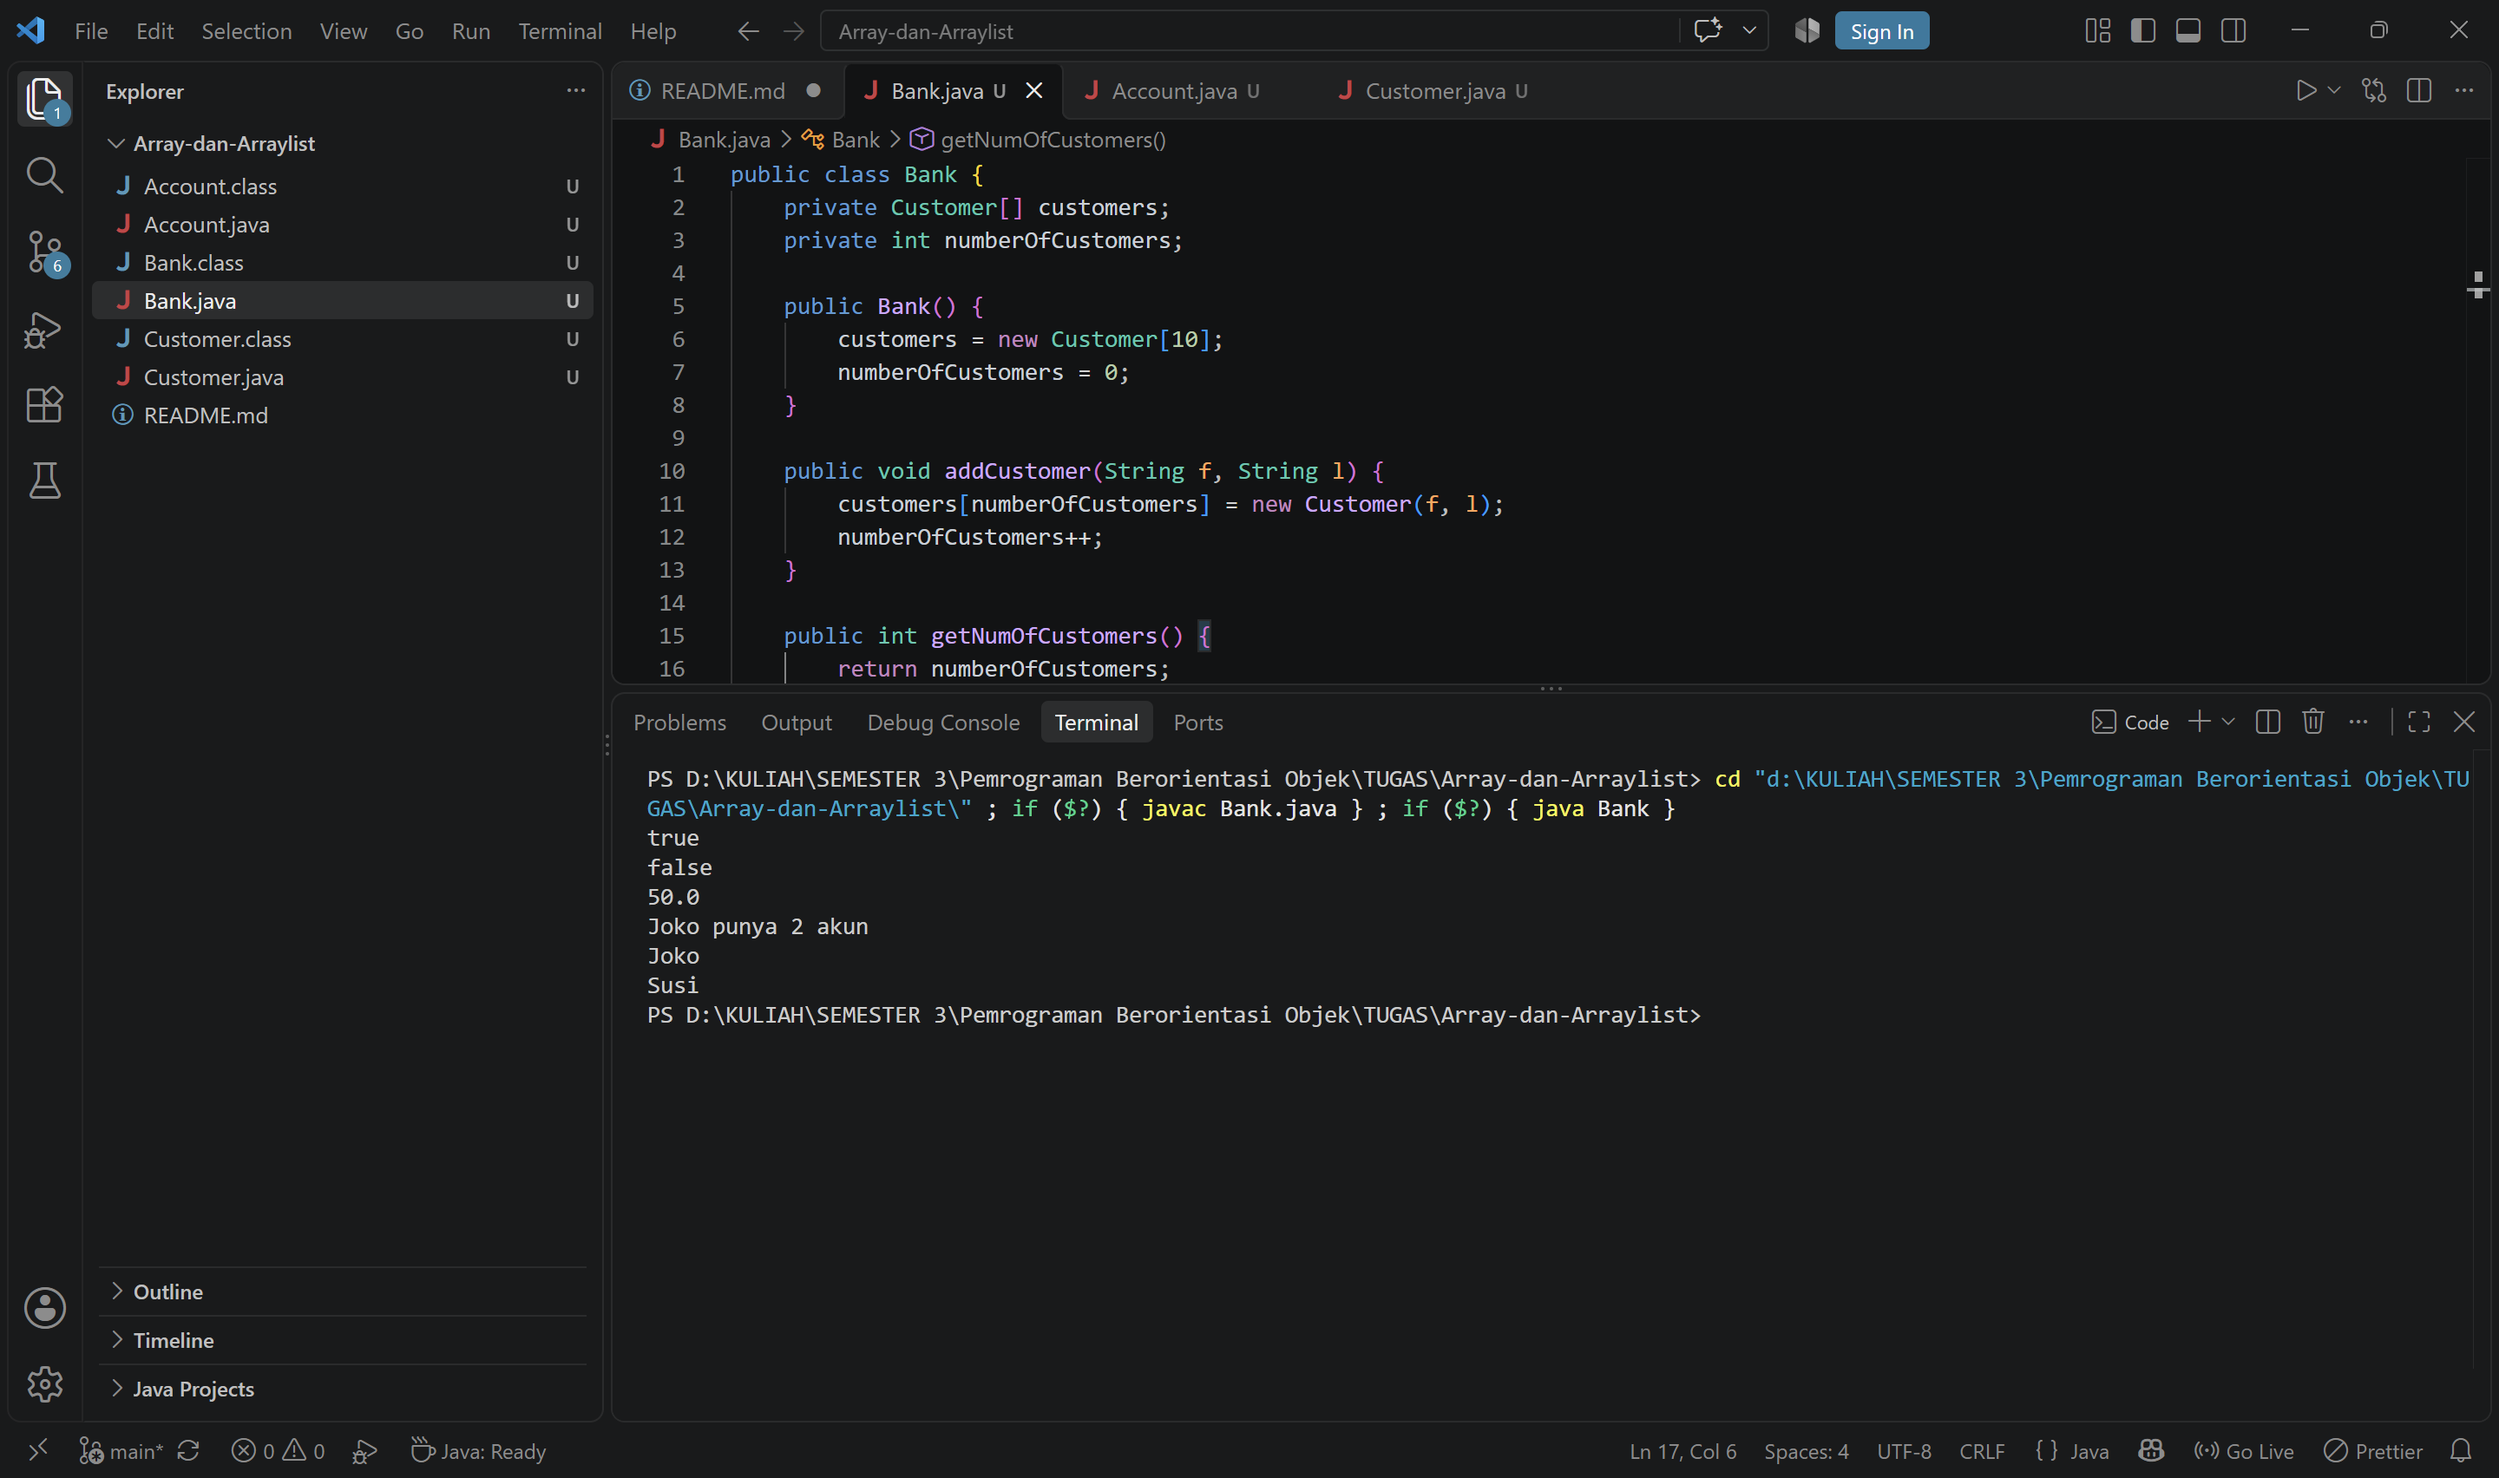
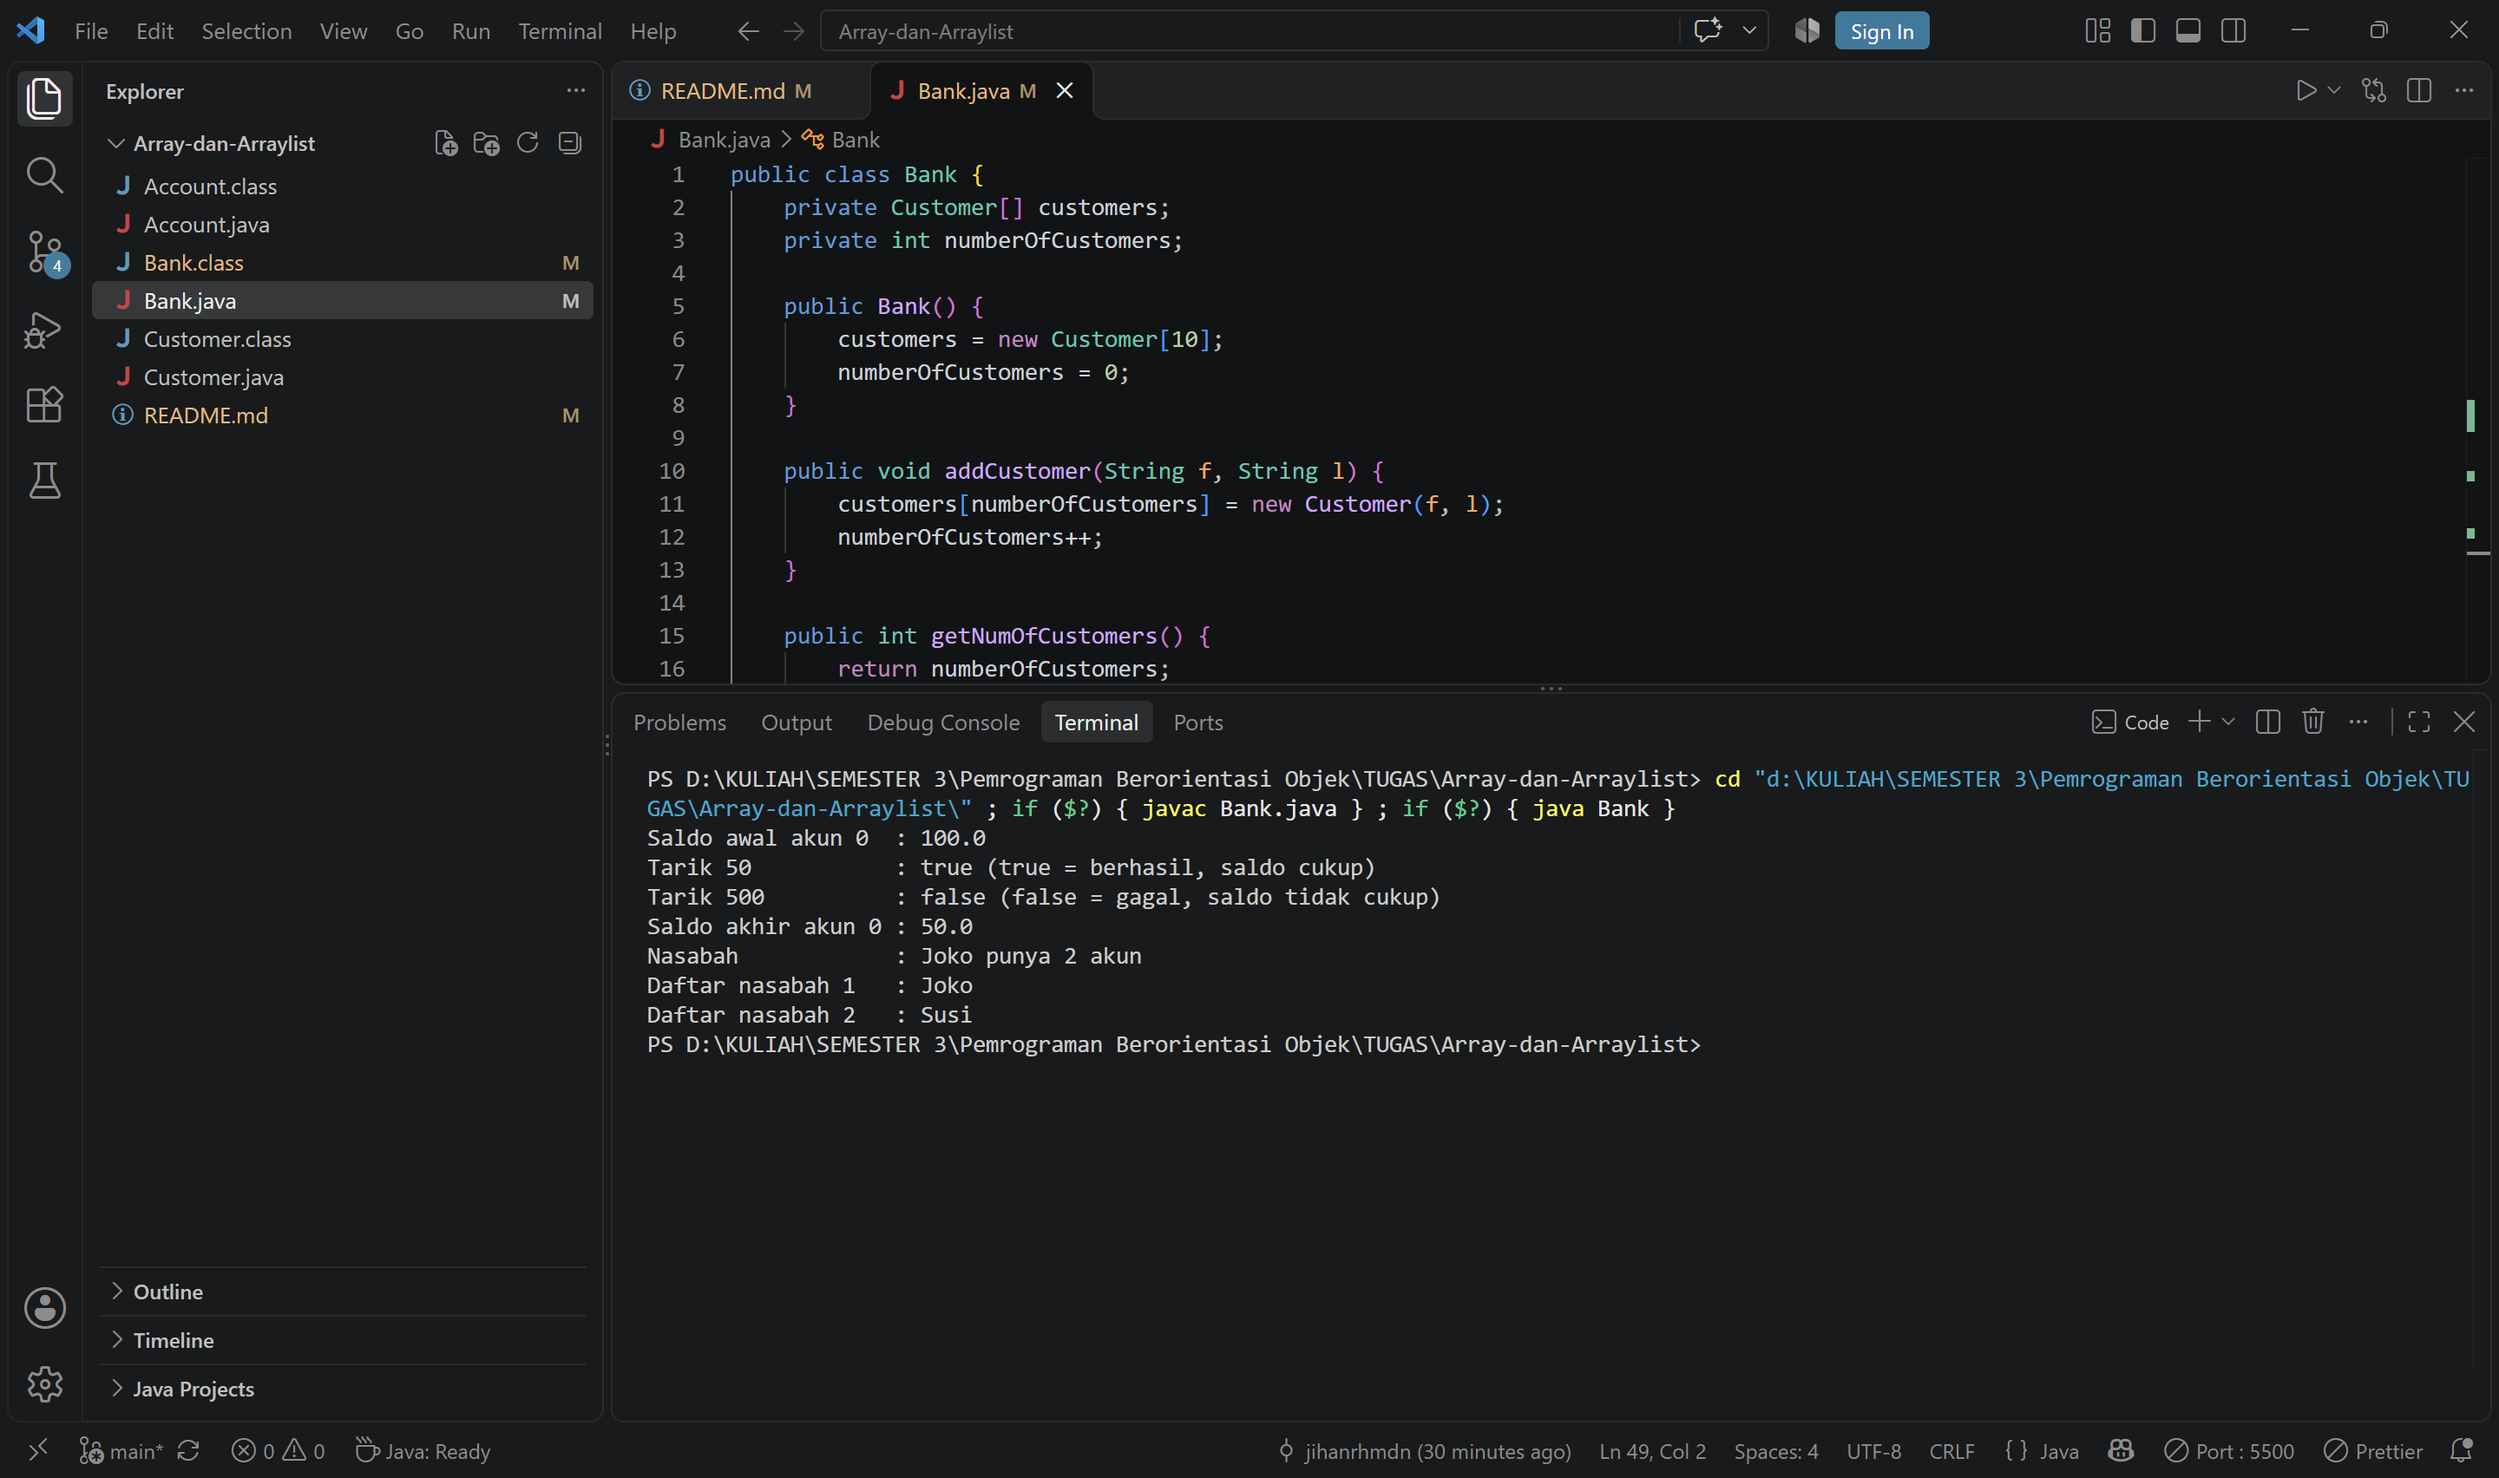
update output

diff --git a/Bank.java b/Bank.java
@@ -27,22 +27,23 @@ public class Bank {
         akun[1] = new Account(200);
 
         // uji uang cukup / kurang
-        System.out.println(akun[0].withdraw(50));   // true (cukup)
-        System.out.println(akun[0].withdraw(500));  // false (kurang)
-        System.out.println(akun[0].getBalance());   // 50.0
+        System.out.println("Saldo awal akun 0  : " + akun[0].getBalance());
+        System.out.println("Tarik 50           : " + akun[0].withdraw(50) + " (true = berhasil, saldo cukup)");
+        System.out.println("Tarik 500          : " + akun[0].withdraw(500) + " (false = gagal, saldo tidak cukup)");
+        System.out.println("Saldo akhir akun 0 : " + akun[0].getBalance());
 
         // uji Customer
         Customer c = new Customer("Joko", "Susilo");
         c.setAccount(akun[0]);
         c.setAccount(akun[1]);
-        System.out.println(c.getFirstName() + " punya " + c.getNumOfAccounts() + " akun");
+        System.out.println("Nasabah            : " + c.getFirstName() + " punya " + c.getNumOfAccounts() + " akun");
 
         // uji Bank
         Bank bank = new Bank();
         bank.addCustomer("Joko", "Susilo");
         bank.addCustomer("Susi", "Wulandari");
         for (int i = 0; i < bank.getNumOfCustomers(); i++) {
-            System.out.println(bank.getCustomer(i).getFirstName());
+            System.out.println("Daftar nasabah " + (i + 1) + "   : " + bank.getCustomer(i).getFirstName());
         }
     }
 }

diff --git a/README.md b/README.md
@@ -1,9 +1,7 @@
 # Array-dan-Arraylist
 
 
-Nama : Jihan Rahmadani
-NIM  : F1D02510060
-Kelas: 3B
+Nama : Jihan Rahmadani | NIM  : F1D02510060 | Kelas: 3B
 
 ## Deskripsi
 
